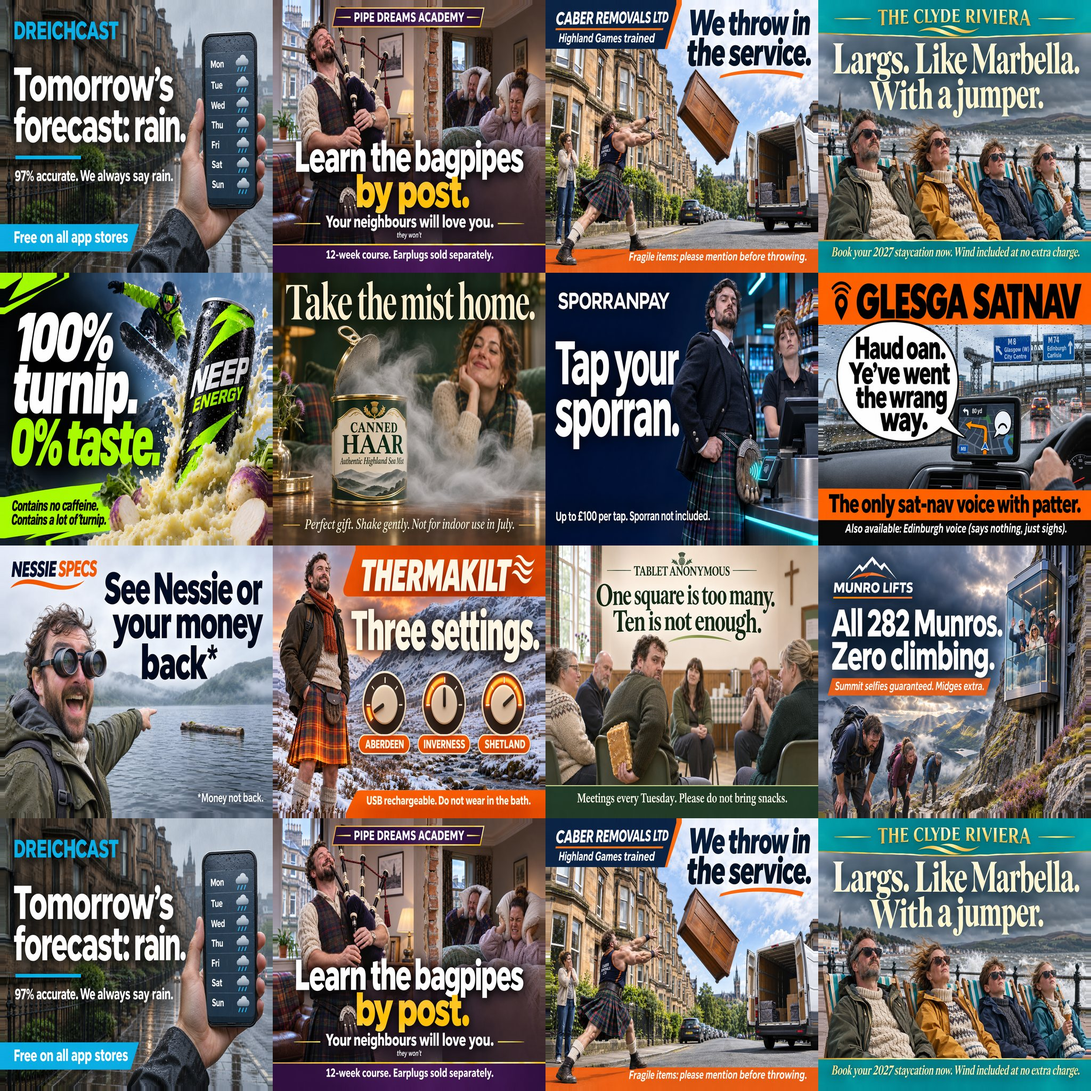
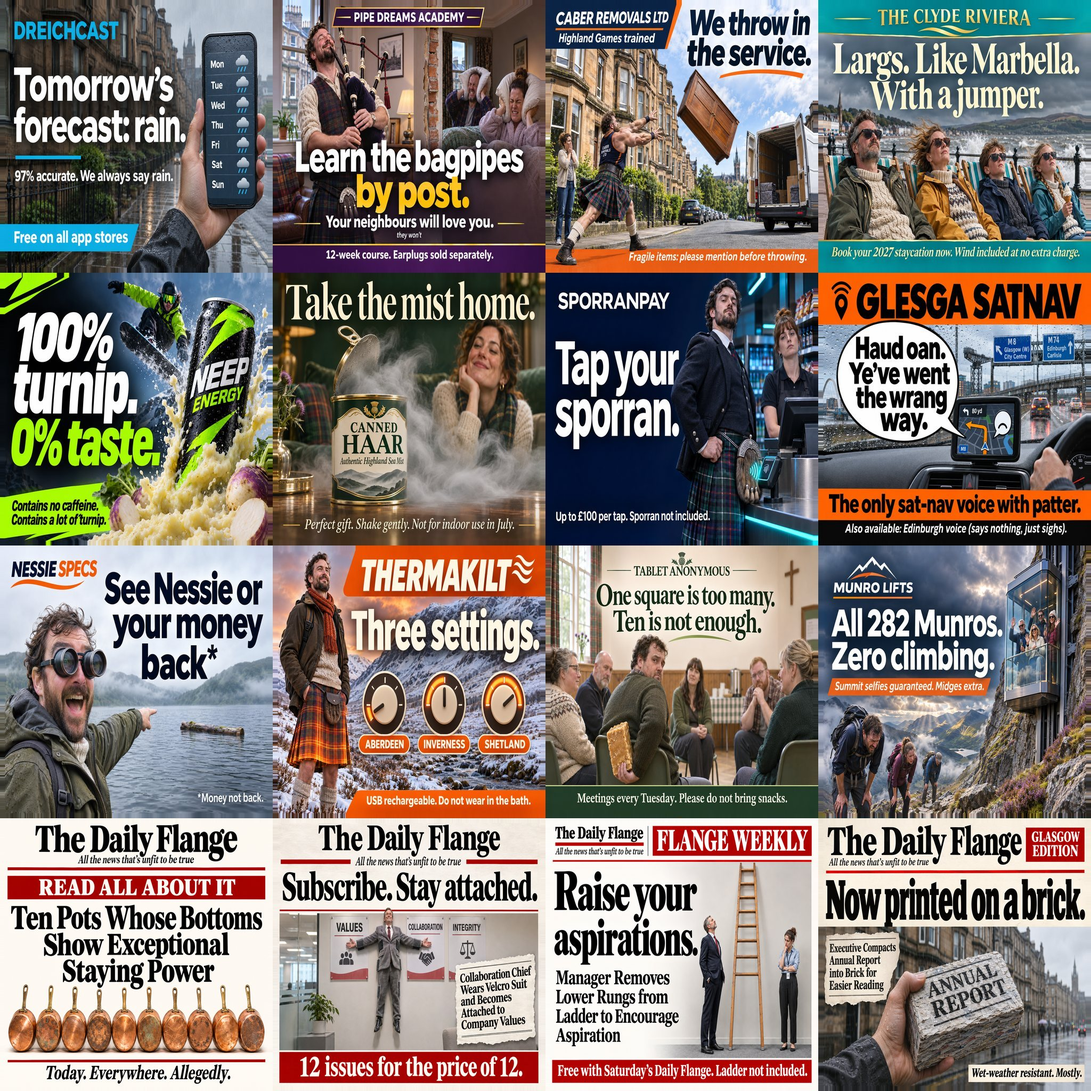
Subway adverts: four Daily Flange billboards on the cross-track walls
The landscape atlas has 16 cells but adverts.js drew only 12 (LAND_POSTERS),
cells 13-16 repeating posters 1-4. Those four cells now hold Daily Flange
billboards (generated with Codex's image tool, headlines quoted from the
news/ site's own stories) and LAND_POSTERS is 16, so every station draws
from 16 distinct posters and none of the existing twelve is lost.

The originals' source PNGs are not kept, so the four were spliced into the
atlas with build_adverts.py's own cell and gutter treatment; cells 1-12
differ only by JPEG re-encoding (mean abs difference under 1 level).
Briefs 13-16 are in tools/adverts_prompts.md.

Changed region(s): [[0.0, 0.75, 1.0, 1.0]]

diff --git a/glasgow-subway/js/sim/adverts.js b/glasgow-subway/js/sim/adverts.js
@@ -22,7 +22,7 @@ export function loadAdvertAtlas(THREE, url) {
   });
 }
 
-export const LAND_POSTERS = 12;   // real posters in the landscape atlas (its last cells repeat the first ones)
+export const LAND_POSTERS = 16;   // posters in the landscape atlas: all 16 cells are distinct (12 originals + 4 Daily Flange)
 
 /** Deterministic per-station order of n cells (string-seeded Fisher-Yates). */
 export function advertOrder(seed, n = ADVERT_CELLS) {

diff --git a/glasgow-subway/tools/adverts_prompts.md b/glasgow-subway/tools/adverts_prompts.md
@@ -29,8 +29,10 @@ Generated 2026-11-05 with Codex's built-in image tool (`codex exec`, gpt-6.1-sol
 
 ## Landscape (cross-track) posters
 
-Source briefs for the 12 billboards in `models/adverts_land.jpg` (1536x1024 each; packed with
-`python3 tools/build_adverts.py <dir> land models/adverts_land.jpg`, cells 13-16 repeat 1-4). Shared preamble:
+Source briefs for the 16 billboards in `models/adverts_land.jpg` (1536x1024 each; packed with
+`python3 tools/build_adverts.py <dir> land models/adverts_land.jpg`; 16 distinct posters fill all 16 cells, `LAND_POSTERS` in `js/sim/adverts.js`).
+Posters 13-16 are the Daily Flange set (the spoof newspaper in `news/`; headlines quoted from `news/articles.js`); they were spliced into cells 13-16
+of the existing atlas, as the original 12 source PNGs are not kept. Shared preamble:
 
 > Image: a realistic, professionally designed LANDSCAPE cross-track billboard poster (aspect ratio 3:2) as it would appear printed on the curved tunnel wall across the tracks in the Glasgow Subway. Glossy, real-world print-advert design quality with bold, clean, correctly spelled, legible typography (keep the text short and very large; it is read from across the tracks). It must be a flat, straight-on, full-bleed poster design filling the entire frame (no frame, no wall, no perspective, no mock-up). Deadpan, completely serious corporate advertising tone for an absurd product. All brands, people and products are fictional; do not use any real brand logos.
 
@@ -46,6 +48,10 @@ Source briefs for the 12 billboards in `models/adverts_land.jpg` (1536x1024 each
 10. Clothing tech advert, cosy warm orange glow. Product: "THERMAKILT" heated kilt. Headline: "Three settings." Three illustrated dial positions labelled "ABERDEEN", "INVERNESS", "SHETLAND". Photo of a contented man in a gently glowing tartan kilt standing in a snowy Highland glen. Small line: "USB rechargeable. Do not wear in the bath."
 11. Support group advert, gentle soft-focus charity design. Brand: "TABLET ANONYMOUS". Headline: "One square is too many. Ten is not enough." Photo of a circle of people in a church hall, one of them guiltily hiding a large slab of Scottish tablet fudge behind his back. Small line: "Meetings every Tuesday. Please do not bring snacks."
 12. Leisure attraction advert, dramatic mountain photography. Brand: "MUNRO LIFTS". Headline: "All 282 Munros. Zero climbing." Photo of a sleek glass elevator rising up the side of a misty Scottish mountain, smug passengers waving at exhausted hillwalkers below. Small line: "Summit selfies guaranteed. Midges extra."
+13. Newspaper advert, "The Daily Flange" (masthead in bold black Georgia-style serif, red #b80000 rules and banners, cream paper, strapline "All the news that's unfit to be true"; this branding is shared by 13-16). Front-page "READ ALL ABOUT IT" billboard. Headline: "Ten Pots Whose Bottoms Show Exceptional Staying Power". Photo: a row of ten worn copper saucepans seen from below. Small line: "Today. Everywhere. Allegedly."
+14. Newspaper subscription advert, "The Daily Flange". Headline: "Subscribe. Stay attached." Clipping: "Collaboration Chief Wears Velcro Suit and Becomes Attached to Company Values". Photo: a smiling executive in a grey Velcro suit stuck to a wall of company-values posters. Small line: "12 issues for the price of 12."
+15. Supplement advert, "FLANGE WEEKLY" (the Saturday supplement) with a small Daily Flange masthead. Headline: "Raise your aspirations." Subheading: "Manager Removes Lower Rungs from Ladder to Encourage Aspiration". Photo: a tall ladder with its bottom rungs missing, a manager gazing up, a puzzled employee on the floor. Small line: "Free with Saturday's Daily Flange. Ladder not included."
+16. Glasgow local edition advert, "The Daily Flange" with a red "GLASGOW EDITION" banner. Headline: "Now printed on a brick." Clipping: "Executive Compacts Annual Report into Brick for Easier Reading". Photo: a hand holding a dense paper brick labelled "ANNUAL REPORT" in a rainy Glasgow tenement street. Small line: "Wet-weather resistant. Mostly."
 
 ## Car-cards (in-train)
 
